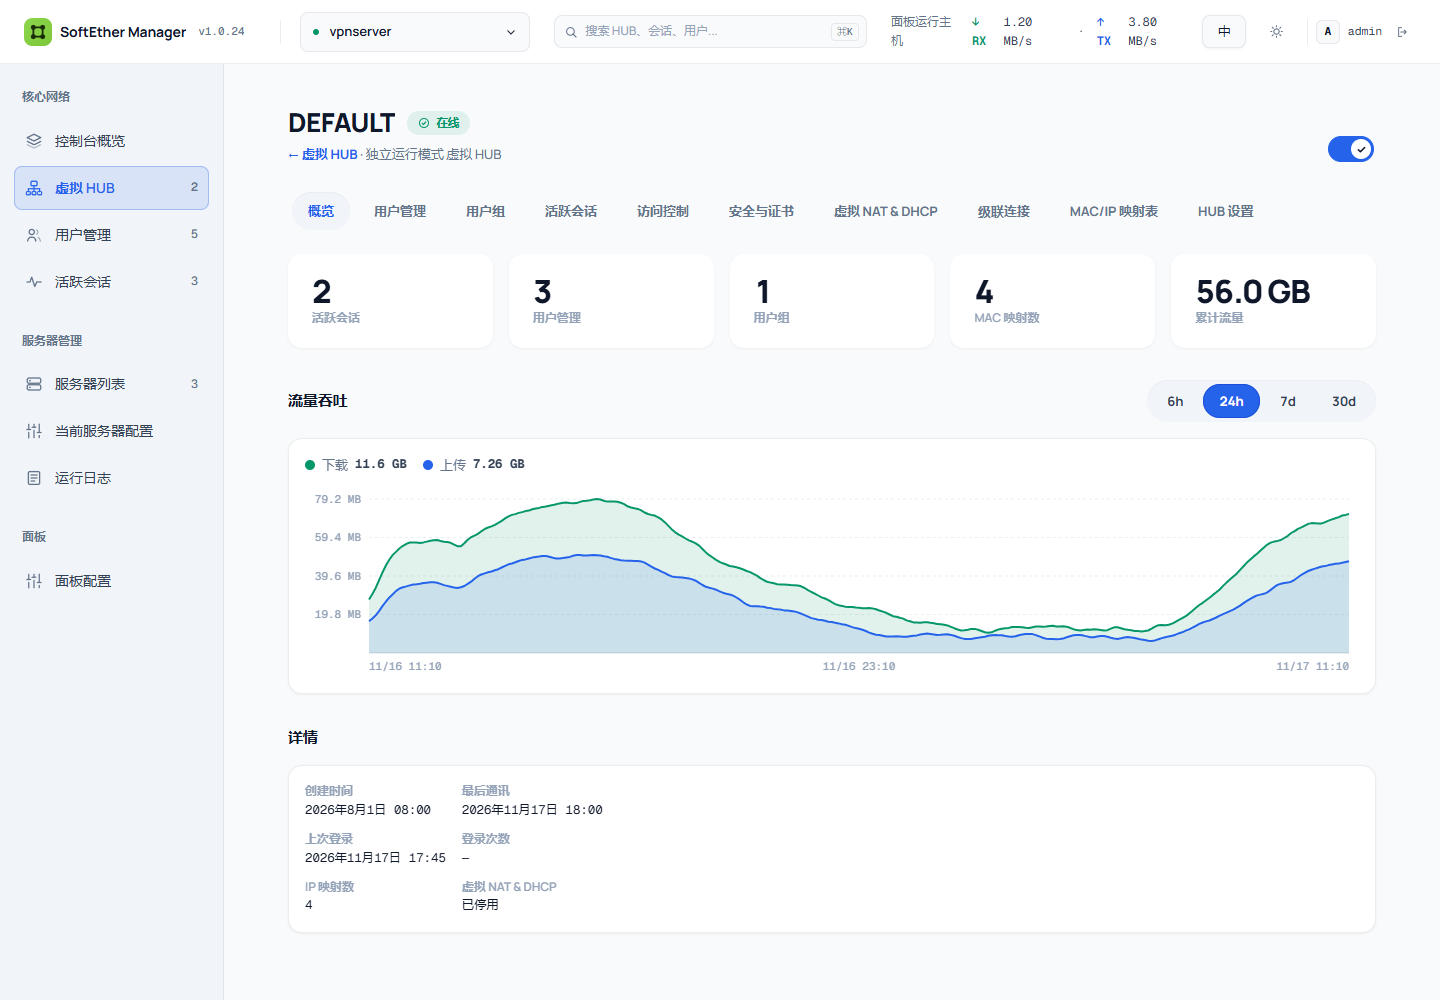
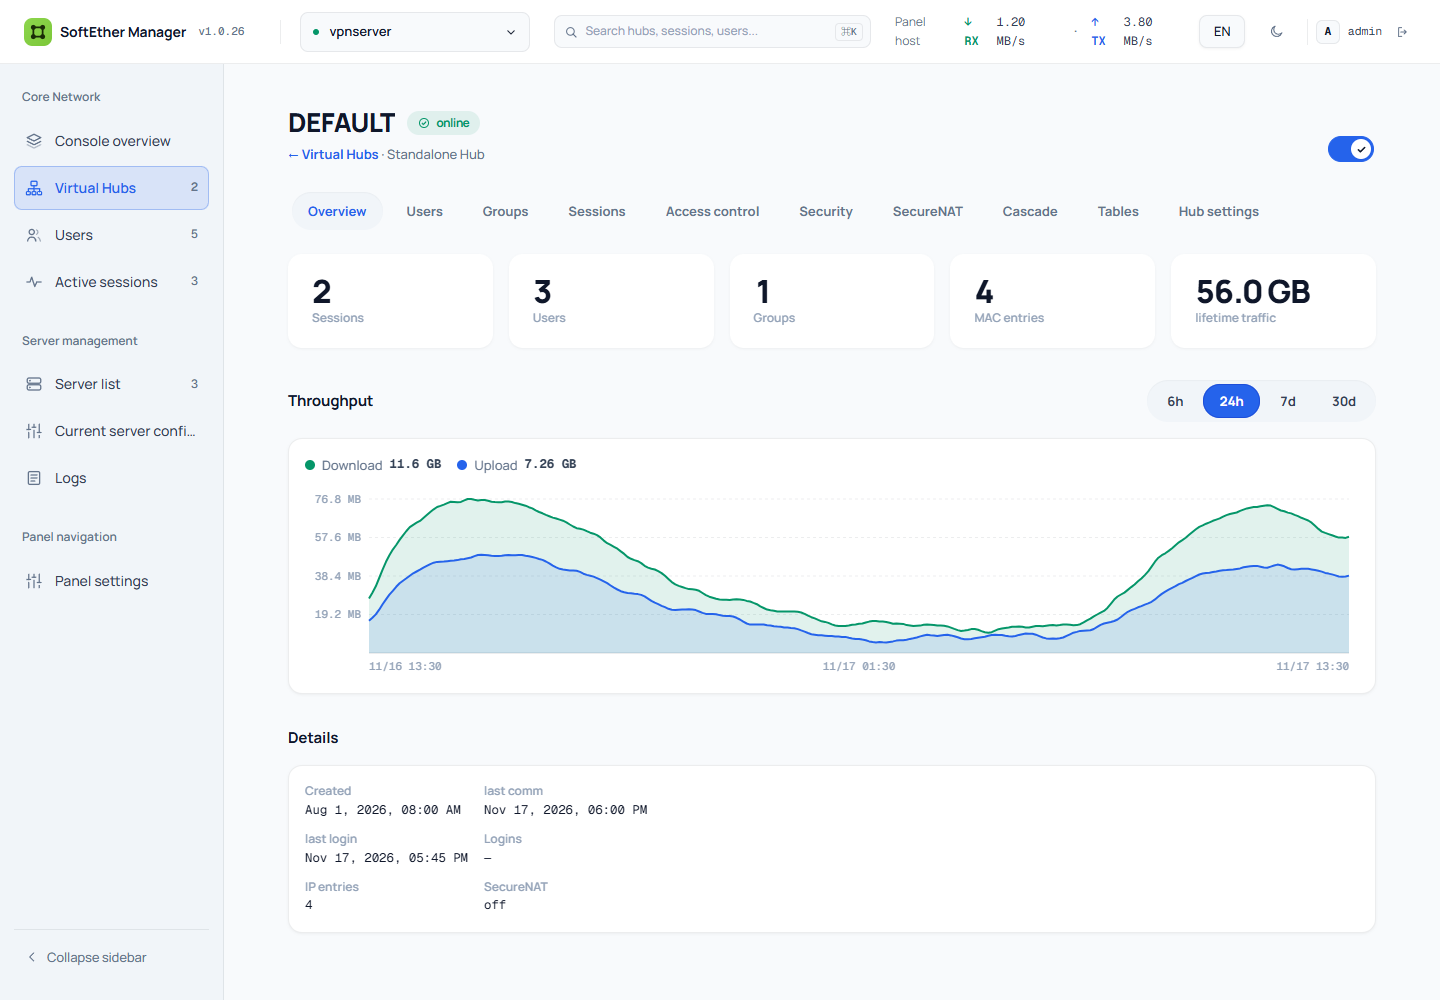
feat: add sidebar collapse toggle, auto-tagging, and fix English preview screenshots

diff --git a/app/web/src/components/AppShell.tsx b/app/web/src/components/AppShell.tsx
@@ -52,6 +52,25 @@ export function AppShell({ children }: { children: React.ReactNode }) {
 
   const [resources, setResources] = useState<Wire | null>(null);
   const [version, setVersion] = useState<string | null>(null);
+  const [collapsed, setCollapsed] = useState<boolean>(() => {
+    if (typeof window === "undefined") return false;
+    try {
+      return localStorage.getItem("sem_sidebar_collapsed") === "true";
+    } catch {
+      return false;
+    }
+  });
+
+  const toggleCollapsed = () => {
+    setCollapsed(prev => {
+      const next = !prev;
+      try {
+        localStorage.setItem("sem_sidebar_collapsed", String(next));
+      } catch {}
+      return next;
+    });
+  };
+
   const searchRef = useRef<HTMLInputElement>(null);
   useEffect(() => { void api.systemInfo().then(info => setVersion(String(info.version))).catch(() => {}); }, []);
   useEffect(() => {
@@ -92,8 +111,8 @@ export function AppShell({ children }: { children: React.ReactNode }) {
   const navLink = (to: string, label: string, icon: React.ReactNode, count?: React.ReactNode) => {
     const target = to.slice(1);
     const on = target === "" ? active === "" || active === "connect" : target === "hubs" ? active === "hubs" || active === "hub" : active === target;
-    return <Link to={to} className={`side__item${on ? " on" : ""}`} aria-current={on ? "page" : undefined}>
-      <span className="side__item-left">{icon}<span>{t(label)}</span></span>
+    return <Link to={to} className={`side__item${on ? " on" : ""}`} aria-current={on ? "page" : undefined} title={collapsed ? t(label) : undefined}>
+      <span className="side__item-left">{icon}<span className="side__item-label">{t(label)}</span></span>
       {count !== undefined && <span className="side__count">{count}</span>}
     </Link>;
   };
@@ -171,29 +190,53 @@ export function AppShell({ children }: { children: React.ReactNode }) {
       {/* ── App Layout Body ─────────────────────────────────────────── */}
       <div className="shell__body">
         {/* Sidebar: Core network, server management and panel navigation */}
-        <aside className="side">
-          <div className="side__section">
-            <div className="side__gtitle">{t("Core Network")}</div>
-            <nav className="side__nav">
-              {navLink("/", "Console overview", <IconPanels size={18} />)}
-              {navLink("/hubs", "Virtual Hubs", <IconHub size={18} />, hubs?.length ?? "—")}
-              {navLink("/users", "Users", <IconUsers size={18} />, hubs ? totalUsers : "—")}
-              {navLink("/connections", "Active sessions", <IconPulse size={18} />, hubs ? totalSessions : "—")}
-            </nav>
+        <aside className={`side${collapsed ? " side--collapsed" : ""}`}>
+          <div className="side__body">
+            <div className="side__section">
+              <div className="side__gtitle">{t("Core Network")}</div>
+              <nav className="side__nav">
+                {navLink("/", "Console overview", <IconPanels size={18} />)}
+                {navLink("/hubs", "Virtual Hubs", <IconHub size={18} />, hubs?.length ?? "—")}
+                {navLink("/users", "Users", <IconUsers size={18} />, hubs ? totalUsers : "—")}
+                {navLink("/connections", "Active sessions", <IconPulse size={18} />, hubs ? totalSessions : "—")}
+              </nav>
+            </div>
+            <div className="side__section">
+              <div className="side__gtitle">{t("Server management")}</div>
+              <nav className="side__nav">
+                {navLink("/servers", "Server list", <IconNode size={18} />, servers?.length ?? "—")}
+                {navLink("/server-settings", "Current server configuration", <IconSettings size={18} />)}
+                {navLink("/logs", "Logs", <IconLogs size={18} />)}
+              </nav>
+            </div>
+            <div className="side__section">
+              <div className="side__gtitle">{t("Panel navigation")}</div>
+              <nav className="side__nav">
+                {navLink("/settings", "Panel settings", <IconSettings size={18} />)}
+              </nav>
+            </div>
           </div>
-          <div className="side__section">
-            <div className="side__gtitle">{t("Server management")}</div>
-            <nav className="side__nav">
-              {navLink("/servers", "Server list", <IconNode size={18} />, servers?.length ?? "—")}
-              {navLink("/server-settings", "Current server configuration", <IconSettings size={18} />)}
-              {navLink("/logs", "Logs", <IconLogs size={18} />)}
-            </nav>
-          </div>
-          <div className="side__section">
-            <div className="side__gtitle">{t("Panel navigation")}</div>
-            <nav className="side__nav">
-              {navLink("/settings", "Panel settings", <IconSettings size={18} />)}
-            </nav>
+
+          <div className="side__footer">
+            <button
+              type="button"
+              className="side__toggle"
+              onClick={toggleCollapsed}
+              title={collapsed ? t("Expand sidebar") : t("Collapse sidebar")}
+              aria-label={collapsed ? t("Expand sidebar") : t("Collapse sidebar")}
+              aria-expanded={!collapsed}
+            >
+              <span className="side__toggle-icon">
+                <IconChevron
+                  size={14}
+                  style={{
+                    transform: collapsed ? "rotate(0deg)" : "rotate(180deg)",
+                    transition: "transform var(--d-fast) ease",
+                  }}
+                />
+              </span>
+              {!collapsed && <span className="side__toggle-label">{t("Collapse sidebar")}</span>}
+            </button>
           </div>
         </aside>
 

diff --git a/app/web/src/styles/shell.css b/app/web/src/styles/shell.css
@@ -344,6 +344,12 @@
 /* ════════════════════════════════════════════════════════════════ sidebar ══ */
 
 .side {
+  position: sticky;
+  top: var(--topbar-h);
+  height: calc(100vh - var(--topbar-h));
+  height: calc(100dvh - var(--topbar-h));
+  max-height: calc(100vh - var(--topbar-h));
+  max-height: calc(100dvh - var(--topbar-h));
   width: 224px;
   flex-shrink: 0;
   background: var(--bg-deep);
@@ -351,7 +357,10 @@
   padding: var(--s3);
   display: flex;
   flex-direction: column;
-  justify-content: flex-start;
+  justify-content: space-between;
+  transition: width var(--d-quick) var(--ease-out-quint), padding var(--d-quick) var(--ease-out-quint);
+  overflow-x: hidden;
+  user-select: none;
 }
 @media (max-width: 767px) {
   .side {
@@ -359,15 +368,51 @@
   }
 }
 
+.side--collapsed {
+  width: 60px;
+  padding: var(--s3) 8px;
+}
+
+.side__body {
+  display: flex;
+  flex-direction: column;
+  flex: 1;
+  min-height: 0;
+  overflow-y: auto;
+  overflow-x: hidden;
+}
+
 .side__section {
   margin-bottom: 28px;
+  transition: margin-bottom var(--d-quick) ease;
 }
+.side--collapsed .side__section {
+  margin-bottom: 16px;
+}
+
 .side__gtitle {
   padding: 0 var(--s2) 12px;
   font-size: 12px;
   font-weight: 600;
   color: var(--text-muted);
+  white-space: nowrap;
+  overflow: hidden;
+  text-overflow: ellipsis;
+  transition: opacity var(--d-fast) ease;
 }
+.side--collapsed .side__gtitle {
+  height: 1px;
+  padding: 0;
+  margin: 6px 4px 10px;
+  background: var(--border-hairline);
+  color: transparent;
+  font-size: 0;
+  line-height: 0;
+}
+.side--collapsed .side__section:first-child .side__gtitle {
+  display: none;
+}
+
 .side__nav {
   display: flex;
   flex-direction: column;
@@ -387,6 +432,15 @@
   border: 1px solid transparent;
   transition: all var(--d-fast) ease;
   text-decoration: none;
+  overflow: hidden;
+  white-space: nowrap;
+}
+.side--collapsed .side__item {
+  justify-content: center;
+  padding: 0;
+  width: 44px;
+  height: 44px;
+  margin: 0 auto;
 }
 .side__item:hover {
   color: var(--text-primary);
@@ -407,14 +461,84 @@
   gap: 8px;
   min-width: 0;
 }
+.side--collapsed .side__item-left {
+  justify-content: center;
+  gap: 0;
+}
 .side__item-left svg {
   flex-shrink: 0;
   color: var(--text-muted);
+}
+.side__item.on .side__item-left svg {
+  color: var(--accent);
+}
+.side__item-label {
+  overflow: hidden;
+  text-overflow: ellipsis;
+  white-space: nowrap;
+}
+.side--collapsed .side__item-label {
+  display: none;
 }
 .side__count {
   font-family: var(--font-mono);
   font-size: 12px;
   color: var(--text-muted);
+}
+.side--collapsed .side__count {
+  display: none;
+}
+
+/* Sidebar Footer & Collapse Toggle */
+.side__footer {
+  margin-top: auto;
+  padding-top: var(--s2);
+  border-top: 1px solid var(--border-hairline);
+  display: flex;
+  align-items: center;
+}
+.side--collapsed .side__footer {
+  justify-content: center;
+}
+.side__toggle {
+  display: flex;
+  align-items: center;
+  gap: 8px;
+  width: 100%;
+  height: 38px;
+  padding: 0 10px;
+  background: transparent;
+  border: 1px solid transparent;
+  border-radius: var(--r-ctl);
+  color: var(--text-muted);
+  font-size: var(--t-micro);
+  font-weight: 500;
+  cursor: pointer;
+  transition: all var(--d-fast) ease;
+  white-space: nowrap;
+  outline: none;
+}
+.side--collapsed .side__toggle {
+  width: 44px;
+  height: 44px;
+  padding: 0;
+  justify-content: center;
+  margin: 0 auto;
+}
+.side__toggle:hover {
+  background: var(--bg-raised);
+  color: var(--text-primary);
+  border-color: var(--border-hairline);
+}
+.side__toggle-icon {
+  display: inline-flex;
+  align-items: center;
+  justify-content: center;
+  flex-shrink: 0;
+}
+.side__toggle-label {
+  font-size: 13px;
+  letter-spacing: -0.01em;
 }
 
 /* ═══════════════════════════════════════════════════════════ mobile tabbar ══ */

diff --git a/app/web/src/lib/i18n.tsx b/app/web/src/lib/i18n.tsx
@@ -124,6 +124,8 @@ const zhCN: Record<string, string> = {
   "Switch to dark": "切换为深色",
   "Expand the sidebar": "展开侧边栏",
   "Collapse the sidebar": "折叠侧边栏",
+  "Collapse sidebar": "收起侧栏",
+  "Expand sidebar": "展开侧栏",
   "Check for updates": "检查更新",
   "An update is running": "正在更新中",
 
